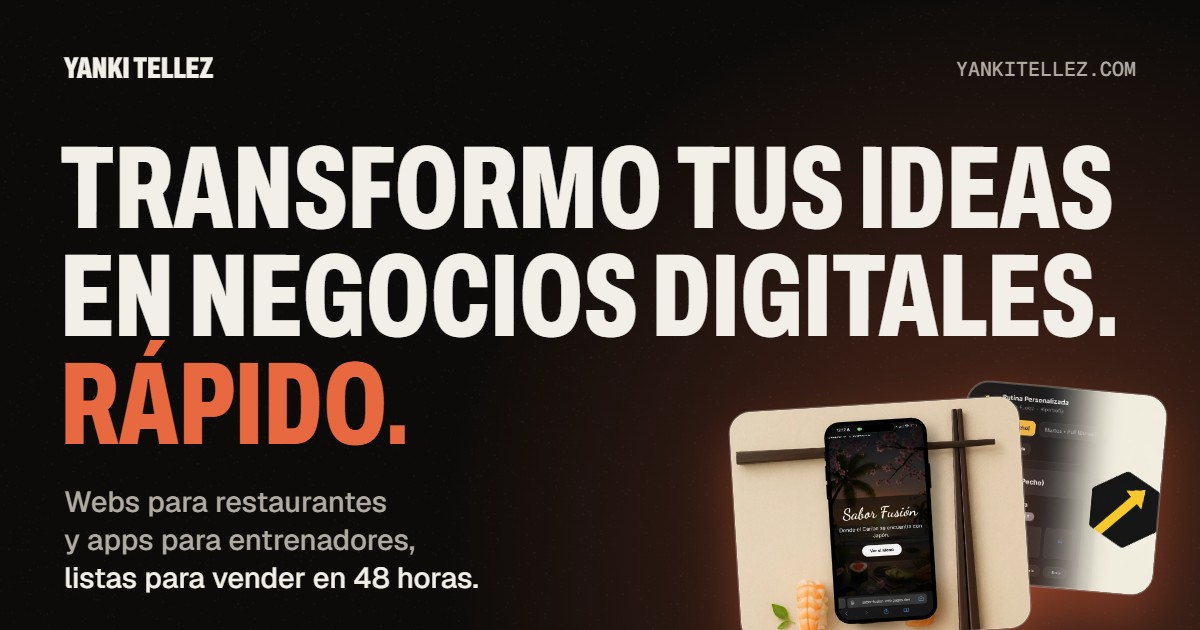
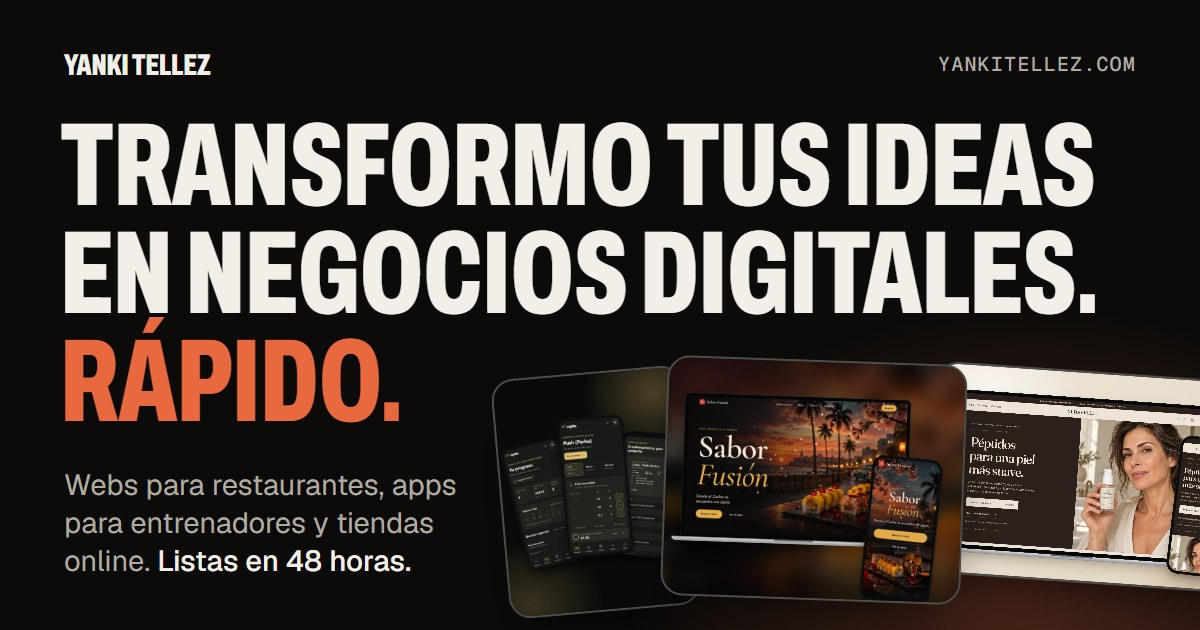
Add Repite and ALBAVELLE projects, refresh Sabor Fusion cover
- Demos section now shows three projects: Sabor Fusion, Repite (training app) and ALBAVELLE (Shopify store)
- New covers built from real screenshots of each live site in laptop and phone frames
- Third project uses a different layout (wide image, text bottom right) to avoid a repeated pattern
- Hero cluster and Open Graph image updated with the new covers
- Remove the outdated PNG screenshots and the old gym image

diff --git a/index.html b/index.html
@@ -153,16 +153,16 @@
 
             <div class="hero__visual" data-hero-visual>
                 <figure class="shot shot--a">
-                    <img src="img/sabor-fusion.webp"
-                         srcset="img/sabor-fusion-800.webp 800w, img/sabor-fusion.webp 1040w"
+                    <img src="img/sabor-fusion-800.webp"
+                         srcset="img/sabor-fusion-800.webp 800w, img/sabor-fusion.webp 1600w"
                          sizes="(min-width: 1024px) 34vw, 78vw"
-                         width="1040" height="832" alt="" fetchpriority="high" decoding="async">
+                         width="1600" height="1280" alt="" fetchpriority="high" decoding="async">
                 </figure>
                 <figure class="shot shot--b">
-                    <img src="img/gymlabs.webp"
-                         srcset="img/gymlabs-720.webp 720w, img/gymlabs.webp 920w"
-                         sizes="(min-width: 1024px) 24vw, 56vw"
-                         width="920" height="920" alt="" decoding="async">
+                    <img src="img/repite-640.webp"
+                         srcset="img/repite-640.webp 640w, img/repite.webp 1280w"
+                         sizes="(min-width: 1024px) 22vw, 50vw"
+                         width="1280" height="1600" alt="" decoding="async">
                 </figure>
             </div>
         </div>
@@ -233,14 +233,15 @@
                 <article class="demo demo--a">
                     <a class="demo__media" href="https://sabor-fusion-web.pages.dev/" target="_blank" rel="noopener noreferrer" tabindex="-1" aria-hidden="true">
                         <img data-parallax src="img/sabor-fusion.webp"
-                             srcset="img/sabor-fusion-800.webp 800w, img/sabor-fusion.webp 1040w"
+                             srcset="img/sabor-fusion-800.webp 800w, img/sabor-fusion.webp 1600w"
                              sizes="(min-width: 900px) 56vw, 92vw"
-                             width="1040" height="832" alt="Demo de la web de Sabor Fusión en un móvil, con el botón Ver el Menú, sobre una mesa con palillos y sushi" loading="lazy" decoding="async">
+                             width="1600" height="1280" alt="Web de Sabor Fusión en ordenador y móvil: portada con el Malecón de La Habana al atardecer, flores de cerezo y rolls de sushi fusión" loading="lazy" decoding="async">
                         <span class="demo__go"><svg class="i" aria-hidden="true"><use href="#i-arrow-up-right"/></svg></span>
                     </a>
                     <div class="demo__body">
+                        <p class="demo__kind mono">Restaurante</p>
                         <h3 class="demo__title display">Demo: web para restaurante</h3>
-                        <p class="demo__text">Un ejemplo de web elegante con menú interactivo y reservas. Así se verá tu negocio.</p>
+                        <p class="demo__text">Un ejemplo de web elegante con carta digital, menú QR y reservas por WhatsApp. Así se verá tu negocio.</p>
                         <a class="link-arrow" href="https://sabor-fusion-web.pages.dev/" target="_blank" rel="noopener noreferrer">
                             <span>Ver demo interactiva<span class="sr-only"> del restaurante Sabor Fusión (se abre en una pestaña nueva)</span></span>
                             <svg class="i" aria-hidden="true"><use href="#i-arrow-up-right"/></svg>
@@ -249,18 +250,38 @@
                 </article>
 
                 <article class="demo demo--b">
-                    <a class="demo__media demo__media--sq" href="https://4nk1tb.github.io/rutina-cliente1/" target="_blank" rel="noopener noreferrer" tabindex="-1" aria-hidden="true">
-                        <img data-parallax src="img/gymlabs.webp"
-                             srcset="img/gymlabs-720.webp 720w, img/gymlabs.webp 920w"
-                             sizes="(min-width: 900px) 36vw, 92vw"
-                             width="920" height="920" alt="Demo de la app de rutinas de gimnasio: plan de fuerza con series, repeticiones y temporizador, junto a un logotipo de ejemplo" loading="lazy" decoding="async">
+                    <a class="demo__media demo__media--tall" href="https://4nk1tb.github.io/rutina-cliente1/" target="_blank" rel="noopener noreferrer" tabindex="-1" aria-hidden="true">
+                        <img data-parallax src="img/repite.webp"
+                             srcset="img/repite-640.webp 640w, img/repite.webp 1280w"
+                             sizes="(min-width: 900px) 34vw, 92vw"
+                             width="1280" height="1600" alt="App Repite en tres móviles: progreso semanal, entrenamiento con series y temporizador de descanso, y tarjeta para compartir la sesión" loading="lazy" decoding="async">
                         <span class="demo__go"><svg class="i" aria-hidden="true"><use href="#i-arrow-up-right"/></svg></span>
                     </a>
                     <div class="demo__body">
+                        <p class="demo__kind mono">App para entrenadores</p>
                         <h3 class="demo__title display">Demo: app de rutinas</h3>
-                        <p class="demo__text">Una app web que tus clientes amarán. Clara, fácil de usar y con tu marca personal.</p>
+                        <p class="demo__text">Una app instalable que tus clientes amarán: rutinas, series con descanso, récords y una tarjeta para compartir. Con tu marca personal.</p>
                         <a class="link-arrow" href="https://4nk1tb.github.io/rutina-cliente1/" target="_blank" rel="noopener noreferrer">
                             <span>Ver demo interactiva<span class="sr-only"> de la app de rutinas (se abre en una pestaña nueva)</span></span>
+                            <svg class="i" aria-hidden="true"><use href="#i-arrow-up-right"/></svg>
+                        </a>
+                    </div>
+                </article>
+
+                <article class="demo demo--c">
+                    <a class="demo__media demo__media--wide" href="https://albavelle.com/" target="_blank" rel="noopener noreferrer" tabindex="-1" aria-hidden="true">
+                        <img data-parallax src="img/albavelle.webp"
+                             srcset="img/albavelle-960.webp 960w, img/albavelle.webp 1920w"
+                             sizes="(min-width: 900px) 66vw, 92vw"
+                             width="1920" height="1200" alt="Tienda online ALBAVELLE en ordenador y móvil: portada «Péptidos para una piel más suave» con una mujer sosteniendo el sérum" loading="lazy" decoding="async">
+                        <span class="demo__go"><svg class="i" aria-hidden="true"><use href="#i-arrow-up-right"/></svg></span>
+                    </a>
+                    <div class="demo__body">
+                        <p class="demo__kind mono">Tienda online</p>
+                        <h3 class="demo__title display">ALBAVELLE: tienda Shopify</h3>
+                        <p class="demo__text">Una tienda real para una marca de cosmética con péptidos: catálogo, fichas de producto, carrito y envíos. Diseño editorial a medida.</p>
+                        <a class="link-arrow" href="https://albavelle.com/" target="_blank" rel="noopener noreferrer">
+                            <span>Ver la tienda<span class="sr-only"> ALBAVELLE (se abre en una pestaña nueva)</span></span>
                             <svg class="i" aria-hidden="true"><use href="#i-arrow-up-right"/></svg>
                         </a>
                     </div>

diff --git a/css/styles.css b/css/styles.css
@@ -387,7 +387,7 @@ main, .footer { position: relative; z-index: var(--z-content); }
 }
 .shot img { width: 100%; height: 100%; object-fit: cover; }
 .shot--a { --rot: -3.5deg; --d: 32; left: 0; bottom: 0; width: 74%; aspect-ratio: 1.25; z-index: 2; }
-.shot--b { --rot: 5deg; --d: -52; right: 0; top: 0; width: 50%; aspect-ratio: 1; z-index: 1; }
+.shot--b { --rot: 5deg; --d: -52; right: 0; top: 0; width: 42%; aspect-ratio: 0.8; z-index: 1; }
 
 @media (min-width: 1024px) {
     .hero__inner { min-height: calc(100dvh - var(--nav-h) - 1.5rem - clamp(1.25rem, 4vh, 2.75rem)); gap: 0; }
@@ -497,12 +497,21 @@ main, .footer { position: relative; z-index: var(--z-content); }
 }
 .demo--a { grid-column: 1 / span 7; }
 .demo--b { grid-column: 9 / span 4; margin-top: clamp(0px, 14vw, 13rem); }
+/* Tercer proyecto: imagen ancha a la izquierda y texto alineado abajo a la derecha (composición distinta a las otras dos) */
+.demo--c {
+    grid-column: 1 / -1; margin-top: clamp(0px, 2vw, 2rem);
+    display: grid; grid-template-columns: repeat(12, 1fr); column-gap: inherit; align-items: end;
+}
+.demo--c .demo__media { grid-column: 1 / span 8; }
+.demo--c .demo__body { grid-column: 9 / span 4; margin-top: 0; padding-bottom: 0.4rem; }
 .demo__media {
     position: relative; display: block; overflow: hidden;
     aspect-ratio: 1.25; border-radius: var(--r-lg);
     border: 1px solid var(--line); background: var(--bg-raise);
 }
-.demo__media--sq { aspect-ratio: 1; }
+.demo__media--tall { aspect-ratio: 0.8; }
+.demo__media--wide { aspect-ratio: 1.6; }
+.demo__kind { color: var(--accent-ink); }
 .demo__media img {
     position: absolute; left: 0; top: -6%; width: 100%; height: 112%; object-fit: cover;
     transition: filter 0.6s var(--ease-out); will-change: transform;
@@ -522,7 +531,9 @@ main, .footer { position: relative; z-index: var(--z-content); }
 .demo__text { max-width: 30rem; color: var(--fg-dim); }
 .demo__body .link-arrow { margin-top: 0.4rem; }
 @media (max-width: 899px) {
-    .demo--a, .demo--b { grid-column: 1 / -1; margin-top: 0; }
+    .demo--a, .demo--b, .demo--c { grid-column: 1 / -1; margin-top: 0; }
+    .demo--c { display: block; }
+    .demo--c .demo__body { margin-top: 1.5rem; padding-bottom: 0; }
     .demo__go { transform: scale(1) rotate(0); width: 3.5rem; height: 3.5rem; }
 }
 

diff --git a/README.md b/README.md
@@ -22,7 +22,8 @@ og-image.jpg        Imagen que se ve al compartir el enlace (1200x630)
 - **Enlaces de pago, WhatsApp y Calendly:** busca `paypal.me`, `wa.me` y `calendly.com` en `index.html`.
 - **Color de acento:** `--accent` y `--accent-ink` en `css/styles.css`.
 - **Nueva demo:** copia un bloque `<article class="demo">` dentro de `#demos` y añade su imagen en `img/`
-  (conviértela a WebP; las actuales pesan 20-40 KB).
+  (conviértela a WebP; las actuales pesan 25-100 KB). Las portadas actuales son capturas reales de cada
+  proyecto montadas en marcos de ordenador y móvil: `sabor-fusion`, `repite` y `albavelle`.
 
 ## Probar en local
 
